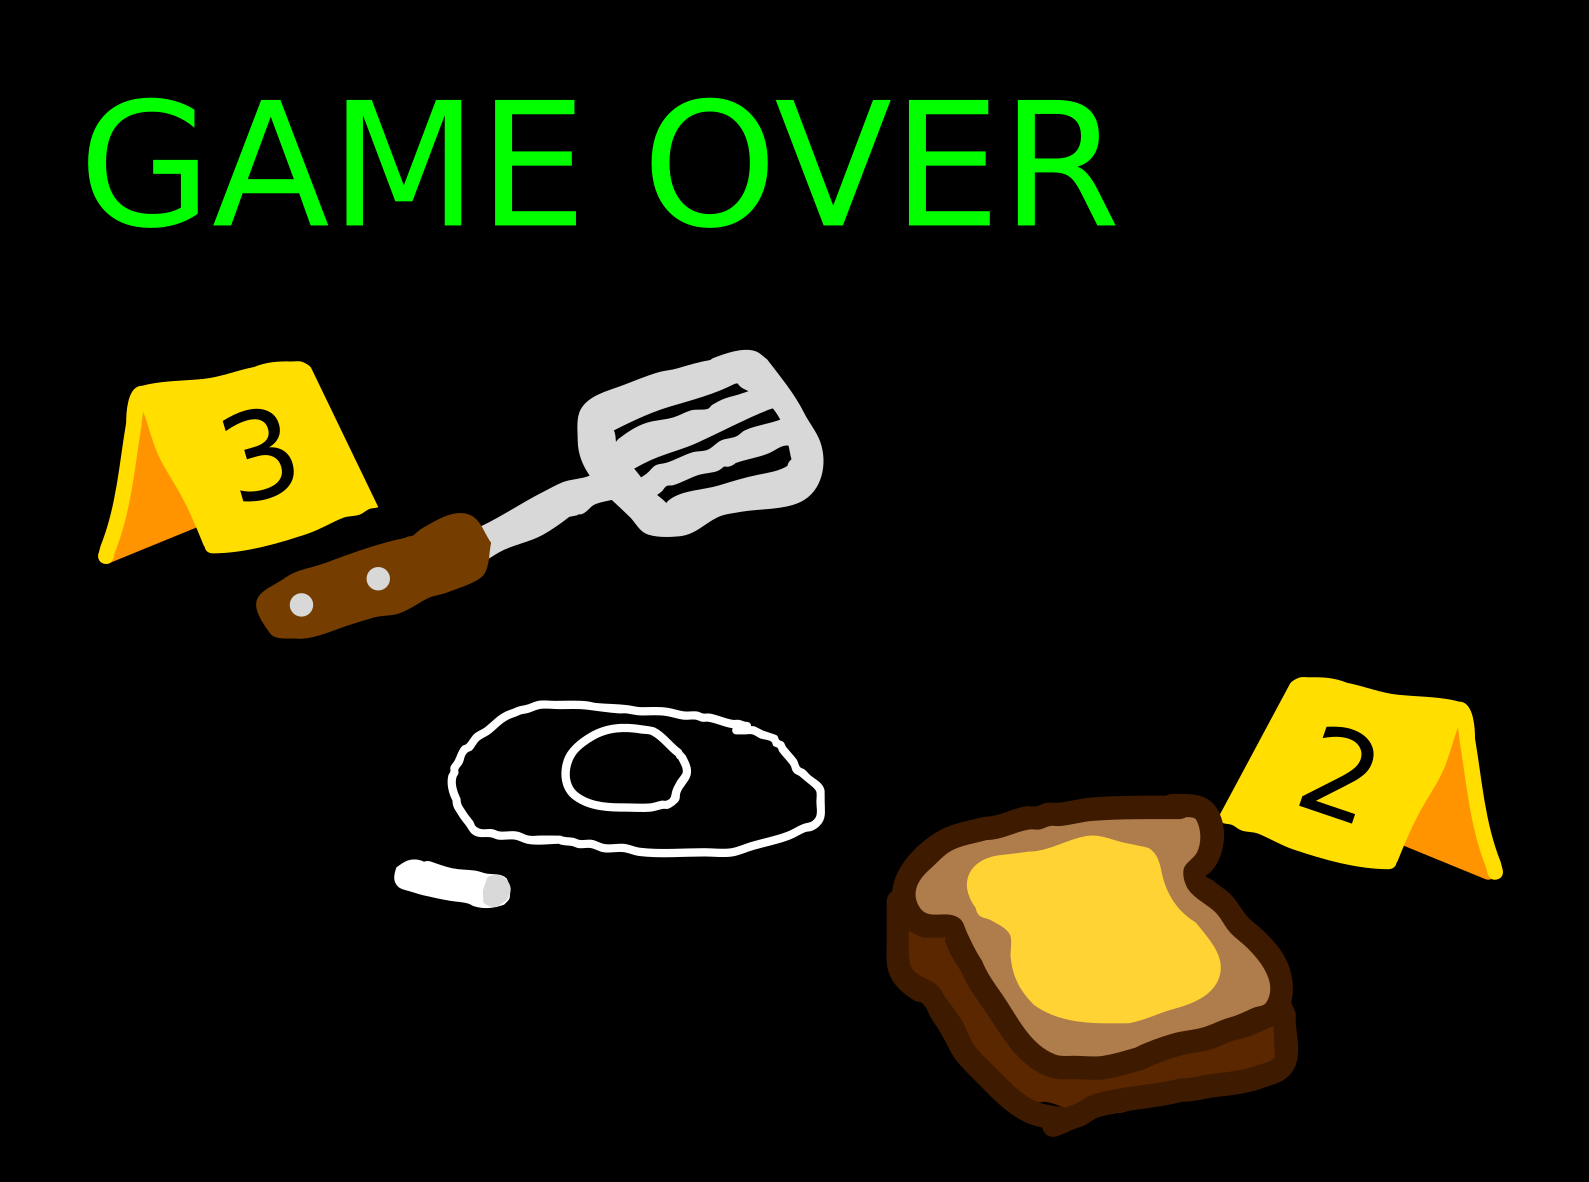
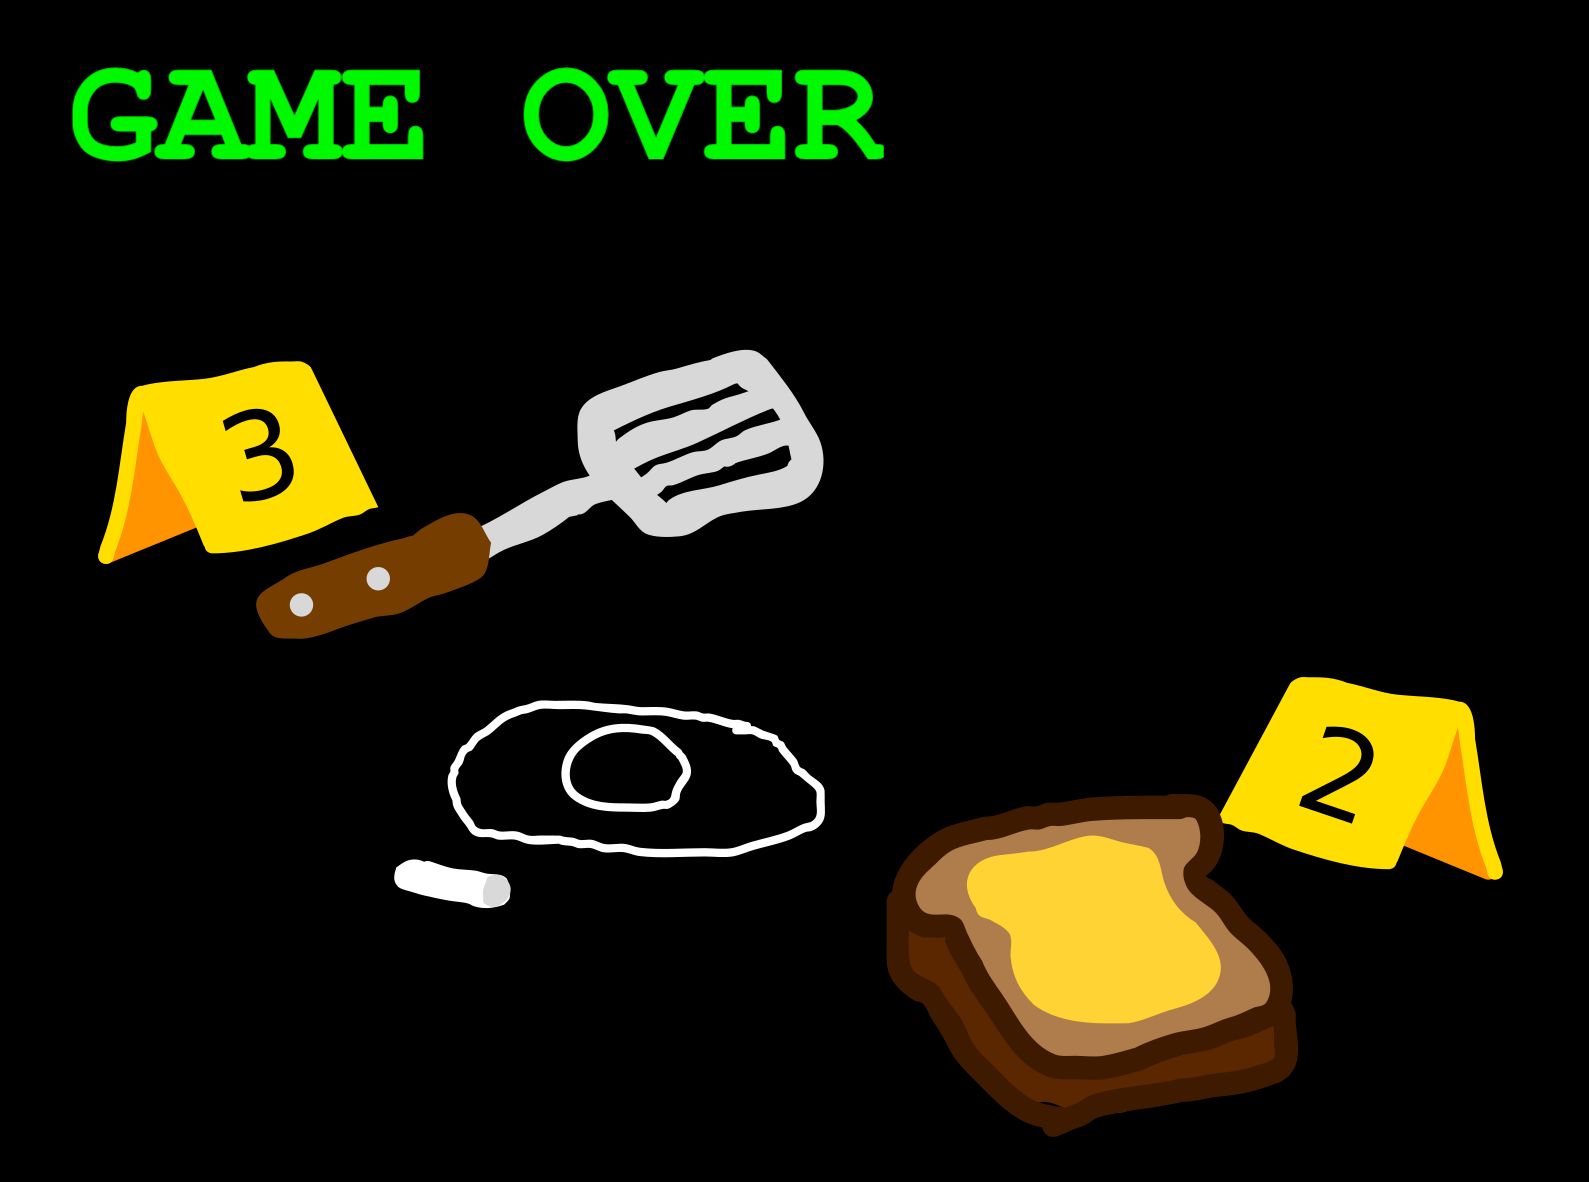
commited, bug report

Changed region(s): [[0.0308, 0.0609, 0.7093, 0.2132]]

diff --git a/src/EggSim/EggSim.java b/src/EggSim/EggSim.java
@@ -4,8 +4,8 @@ import processing.core.PApplet;
 import processing.core.PImage;
 
 public class EggSim extends PApplet {
-    static final int WIDTH = 1920;
-    static final int HEIGHT = 945;
+    static final int WIDTH = 1000; // 1920 originally
+    static final int HEIGHT = 600; // 945 originally
     int eggwhite = 300;
     int widthwhite = 160;
     int widthyolk = 55;
@@ -17,10 +17,13 @@ public class EggSim extends PApplet {
     int jumps = 0;
     float eggY = 0;
     float eggSpeed = 0;
-    float grav = 0.1f;
+    float grav = 0.2f;
 
     boolean gameStarted = false;
     PImage startScreen;
+    PImage bacon;
+    PImage gameover1;
+    PImage gameover2;
     @Override
     
     public void settings() {
@@ -30,7 +33,23 @@ public class EggSim extends PApplet {
     @Override
     public void setup() {
     	startScreen = loadImage("./EggSim/eggsim.png");
-    	startScreen.resize(1200, 945);
+    	float ssRatio = 1699/1281;
+    	
+    	if (WIDTH>HEIGHT) {
+    		System.out.println((int) (HEIGHT*ssRatio));
+    		startScreen.resize((int) (HEIGHT*ssRatio), HEIGHT);
+    	} else {
+    		startScreen.resize(WIDTH, (int) (WIDTH/ssRatio));
+    	}
+    	
+    	bacon = loadImage("./EggSim/baconpiece.png"); 
+    	bacon.resize(400, 400);
+    	
+    	gameover1 = loadImage("./EggSim/gameover1.png");
+    	gameover1.resize(1200, 945);
+    	
+    	gameover2 = loadImage("./EggSim/gameover2.png");
+    	gameover2.resize(1200, 945);
     }
 
     @Override
